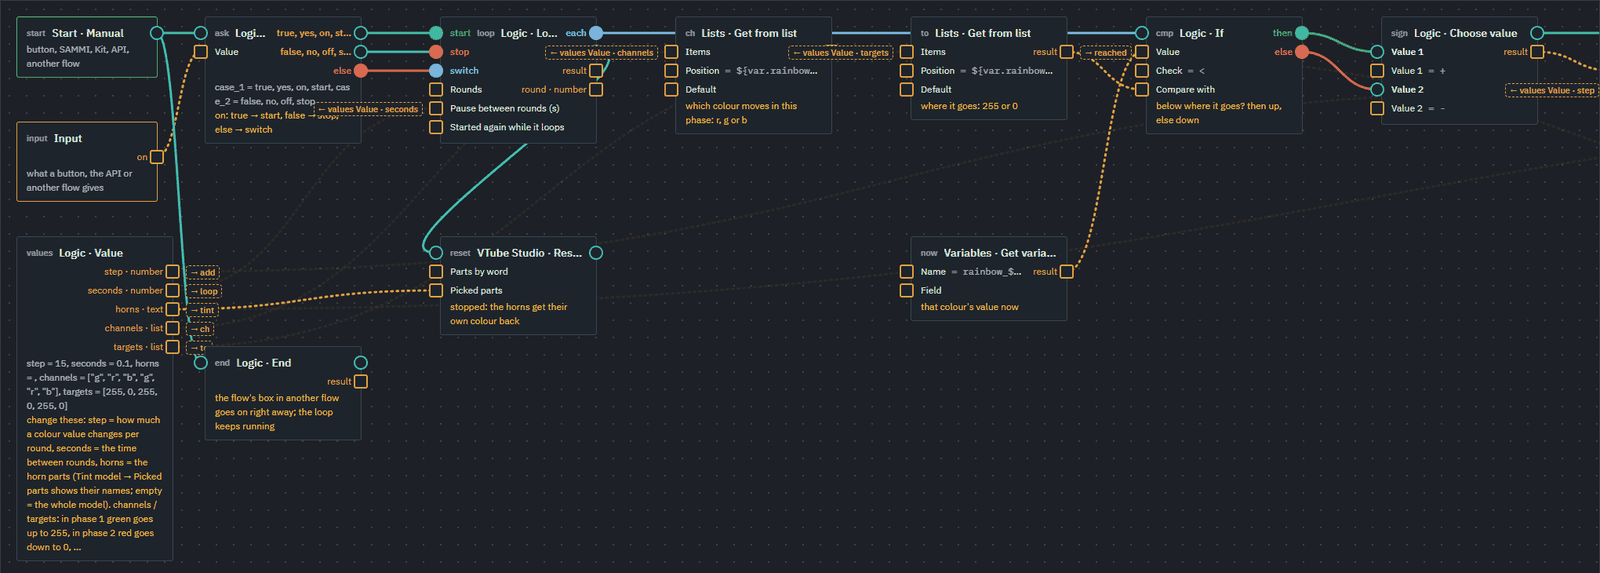
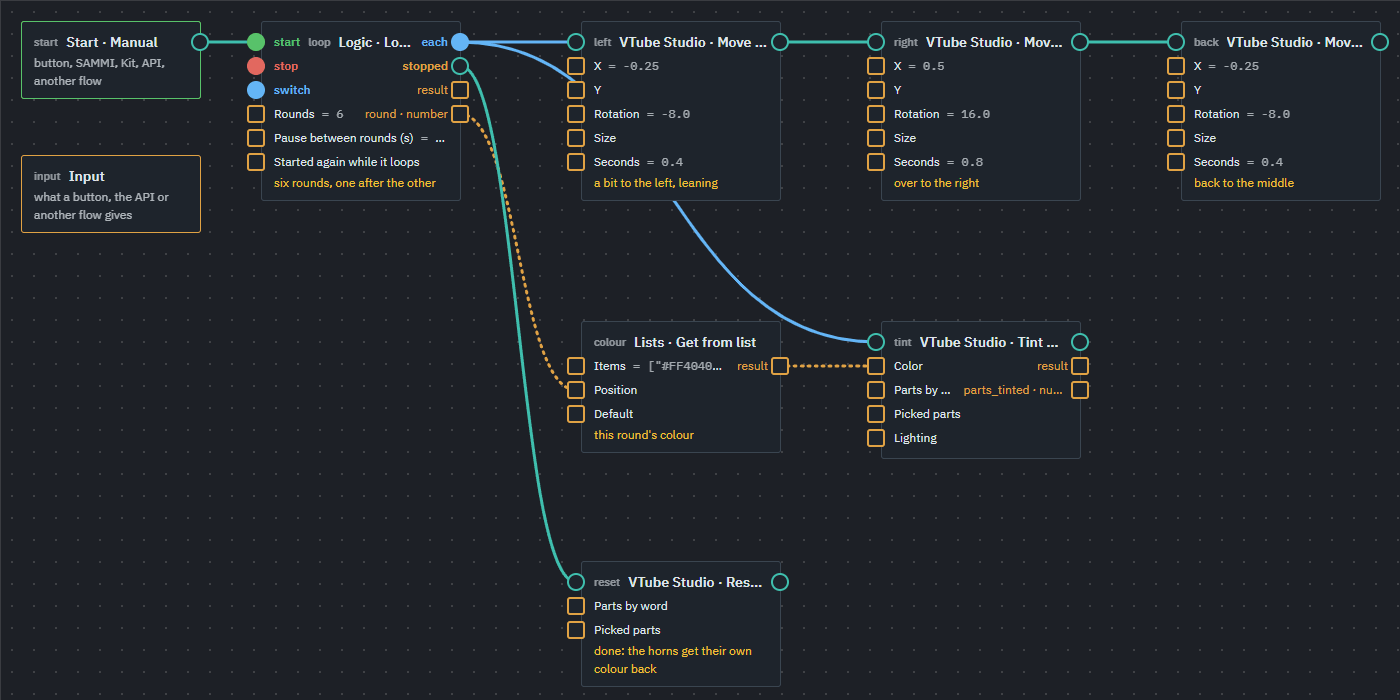
README pictures show the whole flows; APP_VERSION 0.4.0
Claude-Session: https://claude.ai/code/session_01RMMbCwVXgsvz8r16khxmoG

diff --git a/src/streamer_toolbox/core/app_version.py b/src/streamer_toolbox/core/app_version.py
@@ -1,6 +1,6 @@
 # the toolbox's own version: the public release's tag without the "v" (his next release plan, part 1). Raised in
 # the release commit; the packager stops a release build whose tag says something else (Packager.build)
-APP_VERSION = "0.4.0-dev.4"
+APP_VERSION = "0.4.0"
 
 # test versions between releases (his answer of 2026-11-01): 0.5.0-dev.1 < -alpha.1 < -beta.1 < -rc.1 < 0.5.0.
 # Any step may be skipped. A tag with a "-" is a pre-release on GitHub (ci.yml): never "latest"

diff --git a/README.md b/README.md
@@ -39,10 +39,10 @@ last year) and plays it in OBS straight from Twitch, without downloading it.
 
 ![A flow that finds a Twitch clip of a channel and plays it in OBS](docs/images/flow_clip.png)
 
-**A VTube Studio model animation:** the model's horns go through the rainbow in small steps until the flow is
-started again.
+**A VTube Studio model animation:** the model sways left and right six times, and its horns change colour
+every round (red, orange, yellow, green, blue, purple). At the end they get their own colour back.
 
-![A flow that tints a VTube Studio model through the rainbow in a loop](docs/images/flow_vts.png)
+![A flow that moves a VTube Studio model left and right and tints its horns every round](docs/images/flow_vts.png)
 
 ### Connections
 
